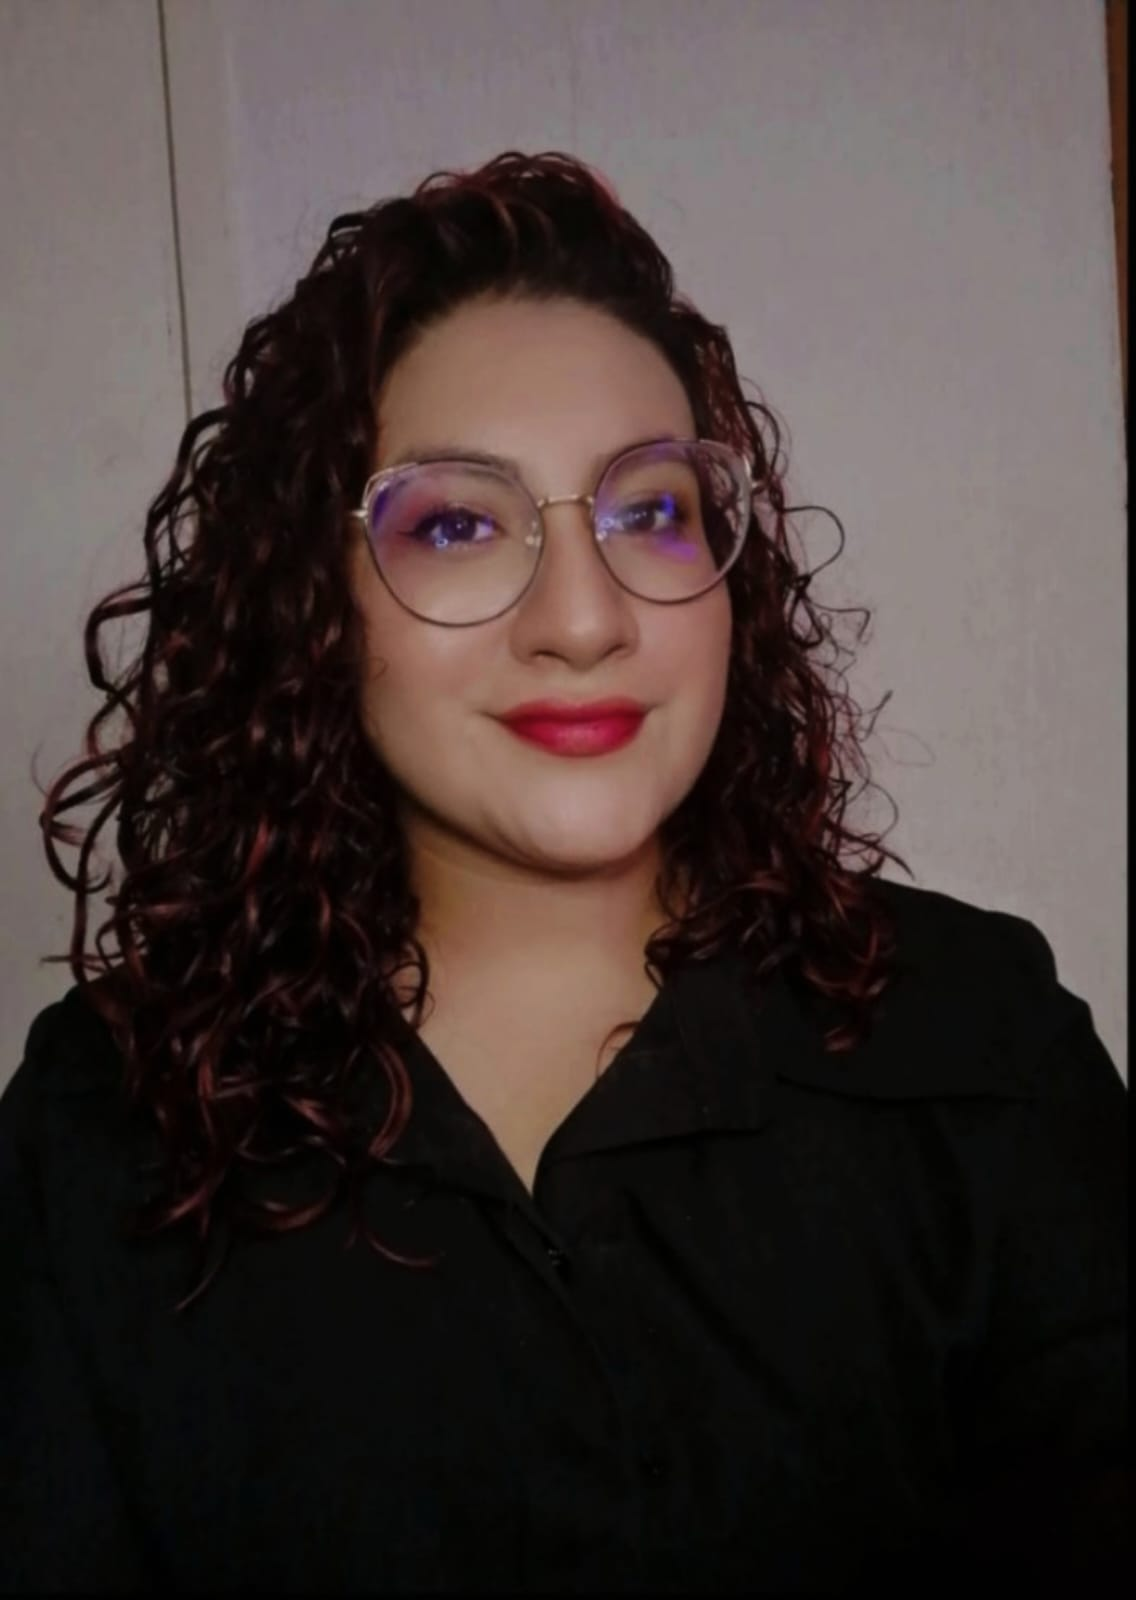
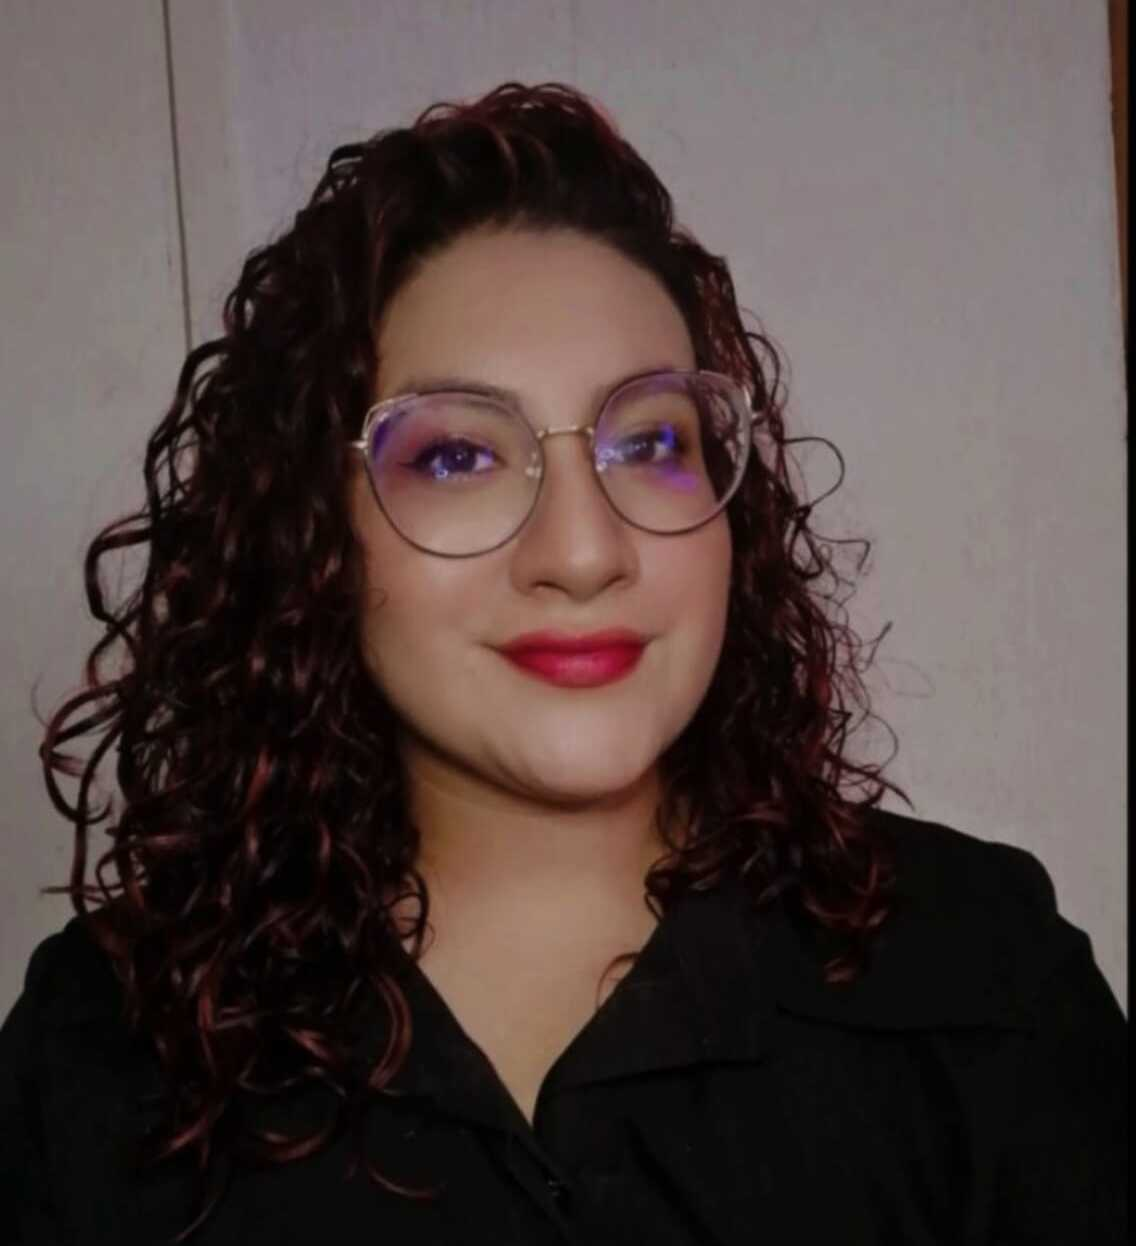
Añado cambios en diseño

diff --git a/HTML/AcercaDeNosotros.html b/HTML/AcercaDeNosotros.html
@@ -38,67 +38,47 @@
         <div id="nosotros">
             <h1 class="titulo1">Equipo de desarrollo</h1>
             <div id="emiliano" class="desarrollador">
-                <img src="../IMG/echE5.jpg" alt="fotoEmiliano" class="foto">
+                <img src="../IMG/Emiliano.png" alt="fotoEmiliano" class="foto">
                 <div>
                     <h3>Emiliano Cornejo</h3>
-                    <br>
-                    <p>¡Hola! Soy Emiliano, tengo 24 años, originario de la Ciudad de México y soy parte del proyecto e-commerce realizado por el equipo 5. <br> Me gusta trabajar y recientemente cursé un bootcamp en Generation enfocado en "Desarrollador Java Full Stack"</p>
+                    <p>
+                        Mi nombre es Emiliano Cornejo, tengo 24 años y soy originario de la Ciudad de México. Soy parte del equipo 5 en este proyecto e-commerce. Recientemente, completé un bootcamp en Generation México enfocado en Desarrollo Java Full Stack, donde consolidé habilidades técnicas y metodologías ágiles. Durante este proyecto, me desempeñé como desarrollador contribuyendo en diferentes áreas del desarrollo del sistema y mejorando mis habilidades técnicas y colaborativas.
+                    </p>
                 </div>
             </div>
             <div id="carmen" class="desarrollador">
                 <div>
                     <h3>Laura del Carmen García Escobar</h3>
                     <p>
-                        <br>
-                        Desarrolladora Java Full Stack con pasión por el diseño y la atención al detalle. En constante aprendizaje y dedicada a la creación de soluciones eficientes. 
-                        Apasionada por la tecnología y la innovación, con experiencia en proyectos colaborativos. 
-                        Siempre buscando nuevas oportunidades para crecer profesional y personalmente.</br>
+                        Mi nombre es Laura del Carmen García Escobar. Soy Desarrolladora Java Full Stack con pasión por el diseño y la atención al detalle. Me especializo en crear soluciones eficientes y trabajar en proyectos colaborativos. Durante este proyecto, he aplicado mis conocimientos en diseño y desarrollo, contribuyendo a la creación de una interfaz amigable y funcional. Siempre busco aprender nuevas habilidades y enfrentar nuevos retos tecnológicos.
                     </p>
                 </div>
-                <img src="../IMG/Laura.jpeg" alt="fotoCarmen" class="foto">
-                
+                <img src="../IMG/Laura.png" alt="fotoCarmen" class="foto">
             </div>
             <div id="brenda" class="desarrollador">
-
-                <img src="../IMG/bren.webp" alt="fotoBrenda" class="foto">
+                <img src="../IMG/Brenda.png" alt="fotoBrenda" class="foto">
                 <div>
-                <h3>Brenda Rodríguez </h3>
-                <p>
-                    <br>
-                    Desarrolladora Java Full Stack con formación como Química de 
-                    Alimentos. Mi creatividad y pasión por la innovación me han llevado a expandir 
-                    mis habilidades, transicionando del desarrollo de nuevos productos alimenticios
-                    al diseño de soluciones digitales.
-                    En este proyecto fui capaz de desempeñarme como Scrum Master, Product Owner y ser
-                     parte del equipo de desarrollo mejorando mis habilidades en estas áreas.
-                </p>
+                    <h3>Brenda Rodríguez</h3>
+                    <p>
+                        Mi nombre es Brenda Rodríguez. Soy Desarrolladora Java Full Stack con formación en Química de Alimentos. Mi creatividad y pasión por la innovación me han llevado a expandir mis habilidades hacia el desarrollo digital. En este proyecto desempeñé roles clave como Scrum Master, Product Owner y desarrolladora, colaborando con el equipo en la planeación, ejecución y solución de problemas. Me interesa seguir creciendo tanto en áreas técnicas como en habilidades de liderazgo.
+                    </p>
                 </div>
             </div>
             <div id="lenny" class="desarrollador">
                 <div>
                     <h3>Lenny Innel Cocom Pedraza</h3>
                     <p>
-                        <br>
-                        Desarrolladora Full Stack Jr.
-                        <br>
-                        Desarrolladora con experiencia en la planeación e implementación de estrategias de cobro
-                        en el sector financiero. Mi última experiencia es en el área de tecnología, brindando soporte
-                        en el análisis de incidencias relacionadas con reportes de software, bases de datos y
-                        consultas SQL.
+                        Mi nombre es Lenny Innel Cocom Pedraza. Soy Desarrolladora Full Stack Jr. con experiencia en el sector financiero, específicamente en planificación e implementación de estrategias. También he trabajado brindando soporte técnico y análisis de incidencias relacionadas con software, bases de datos y consultas SQL. En este proyecto, me enfoqué en la estructura técnica del sistema, aplicando mis habilidades en análisis y resolución de problemas para mejorar el rendimiento y funcionalidad del sistema.
                     </p>
                 </div>
-                <img src="../IMG/lennyCocom.png" alt="fotoLenny" class="foto">
+                <img src="../IMG/Lenny.png" alt="fotoLenny" class="foto">
             </div>
             <div id="rogelio" class="desarrollador">
-                <img src="../IMG/RAV.jpg" alt="fotoRogelio" class="foto">
+                <img src="../IMG/Rogelio.png" alt="fotoRogelio" class="foto">
                 <div>
                     <h3>Rogelio Acosta Villeda</h3>
                     <p>
-                        <br>
-                        Soy Desarrollador Full Stack. Actualmente soy parte de Generation México. Con gusto por el aprendizaje y nuevos retos. Me gusta la tecnología, en
-                        especial el desarrollo web, la ciberseguridad, el análisis de datos y la nube. Busco desarrollarme principalmente en el área 
-                        de la ciberseguridad. 
-                        <br>Considero que siempre se puede aprender algo nuevo.
+                        Mi nombre es Rogelio Acosta Villeda. Soy Desarrollador Full Stack con un fuerte interés en la ciberseguridad, desarrollo web y análisis de datos. Actualmente, formo parte de Generation México, donde he fortalecido mis habilidades en tecnologías emergentes. En este proyecto, participé activamente en el desarrollo técnico y en la implementación de soluciones innovadoras. Mi objetivo profesional es especializarme en ciberseguridad y explorar nuevas áreas dentro del desarrollo tecnológico.
                     </p>
                 </div>
             </div>
@@ -106,11 +86,10 @@
                 <div>
                     <h3>Isaac Victoria Benavides</h3>
                     <p>
-                        <br>
-                        Ingeniero en Sistemas Computacionales con interés en el desarrollo de sistemas web (Full Stack) y en continuo aprendizaje.<br>En este proyecto desempeñé distintos roles bajo la metodología Scrum como parte del equipo de desarrollo, Scrum Master y Product Owner.
+                        Mi nombre es Isaac Victoria Benavides. Soy Ingeniero en Sistemas Computacionales con interés en el desarrollo web Full Stack. En este proyecto, desempeñé roles clave como Scrum Master, Product Owner y miembro del equipo de desarrollo, aplicando metodologías ágiles y técnicas de programación. Me interesa seguir explorando el desarrollo colaborativo y la creación de soluciones tecnológicas que aporten valor y mejoren la experiencia del usuario en los sistemas.
                     </p>
                 </div>
-                <img src="../IMG/isaac.jpg" alt="fotoIsaac" class="foto">
+                <img src="../IMG/Isaac.png" alt="fotoIsaac" class="foto">
             </div>
         </div>
     </div>

diff --git a/CSS/general.css b/CSS/general.css
@@ -20,10 +20,10 @@ h1 {
 }
 
 .navbar {
-    justify-content: space-between; /* Asegura que los elementos se distribuyan correctamente */
+    justify-content: space-between;
 }
 .navbar-collapse {
-    flex-grow: 0; /* Evita que la barra de navegación crezca innecesariamente */
+    flex-grow: 0; 
 }
 .bi-cart4 {
     position: relative;
@@ -31,12 +31,12 @@ h1 {
     right: 0;
 }
 .nav-link, .btn-nav > a, a {
-    color: black !important; /* Cambia el color del texto */
-    text-decoration: none; /* Opcional: eliminar el subrayado */
+    color: black !important; 
+    text-decoration: none; 
 }
 
 .nav-link:hover, .btn-nav > a:hover {
-    color: var(--color-resaltado) !important; /* Cambia el color al pasar el mouse */
+    color: var(--color-resaltado) !important; 
 }
 
 svg {
@@ -53,8 +53,8 @@ a {
     text-decoration: none;
 }
 #pie > a, a {
-    color: black !important; /* Cambia el color del texto */
-    text-decoration: none; /* Opcional: eliminar el subrayado */
+    color: black !important;
+    text-decoration: none; 
 }
 
 #pie[id="pie"] a:hover {
@@ -92,7 +92,7 @@ a {
     #logo {
         height: 80px;
         .navbar-toggler {
-            margin-left: auto; /* Mueve el botón al extremo derecho */
+            margin-left: auto; 
         }
     }
     

diff --git a/JS/general.js b/JS/general.js
@@ -4,14 +4,14 @@
 const estructuraNav = `
 <nav class="navbar navbar-expand-sm bg-dark navbar-dark" id="barra">
     <div class="container-fluid">
-        <a class="navbar-brand" href="#"><img src="../IMG/logo.png" alt="logo" id="logo"></a>
+        <a class="navbar-brand" href="../HTML/AcercaDeNosotros.html"><img src="../IMG/logo.png" alt="logo" id="logo"></a>
         <button class="navbar-toggler" type="button" data-bs-toggle="collapse" data-bs-target="#collapsibleNavbar">
             <span class="navbar-toggler-icon"></span>
         </button>
         <div class="collapse navbar-collapse" id="collapsibleNavbar">
             <ul class="navbar-nav me-auto">
                 <li class="nav-item">
-                    <a class="nav-link" href="./listaProductos.html">Artículos</a>
+                    <a class="nav-link" href="./listaProductos.html">Productos</a>
                 </li>
                 <li class="nav-item">
                     <a class="nav-link" href="./mercado.html">Mercado diario</a>
